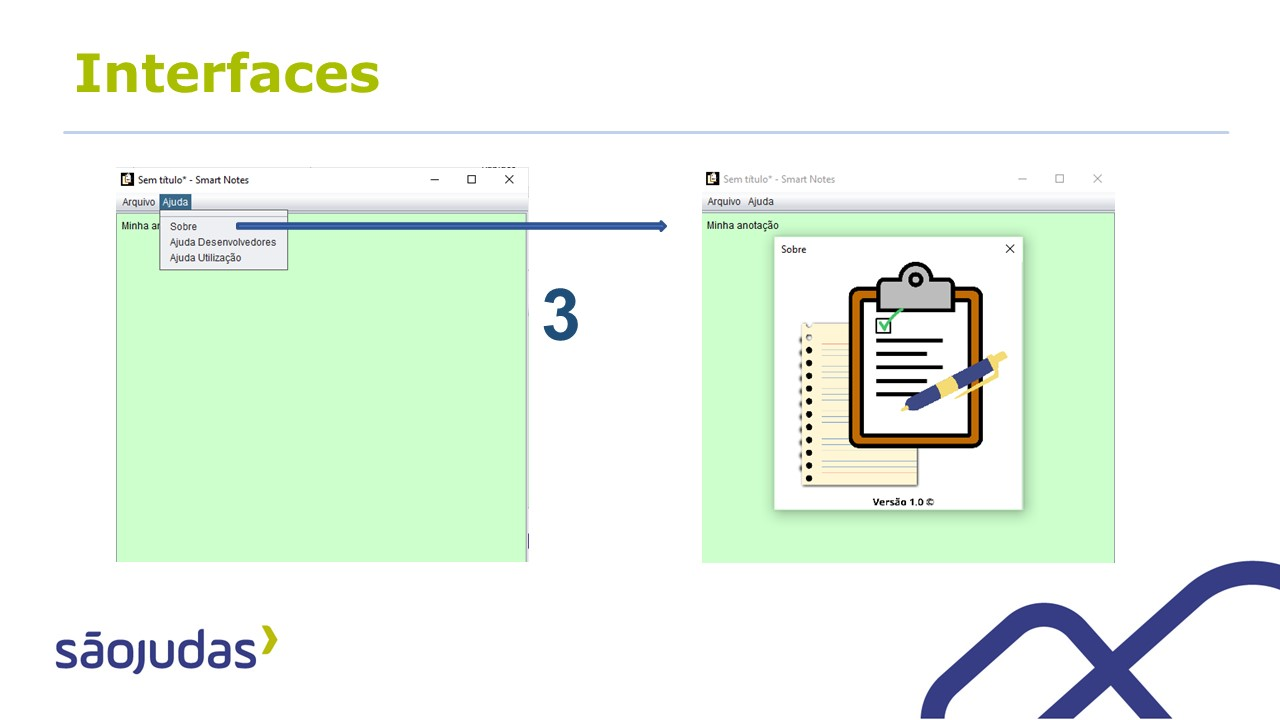
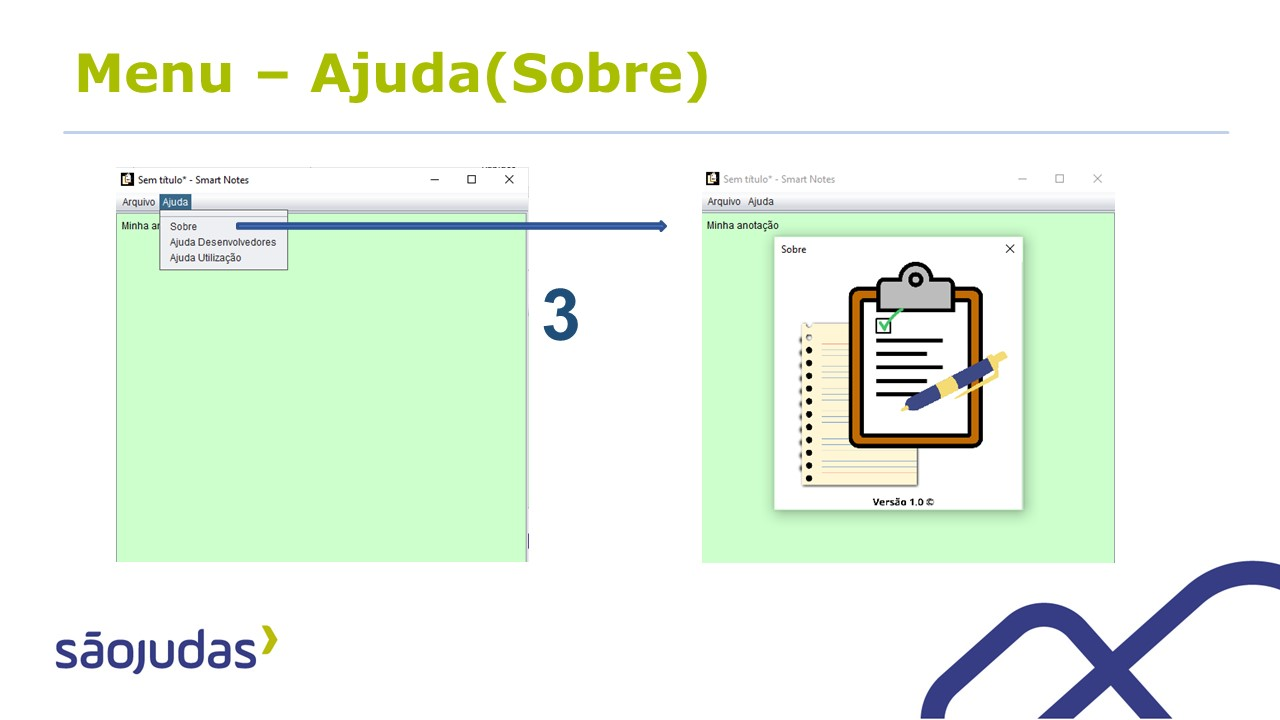
Up

Changed region(s): [[0.0625, 0.0611, 0.5625, 0.1528]]

diff --git a/README.md b/README.md
@@ -28,7 +28,7 @@ Usado a IDE NetBeans para o desenvolvimento do software.
 ---
 &nbsp;
 
-## Funcionamento
+## Funcionamento [Menus]
 &nbsp;
 ![Logo do R](./imgs_README/Slide5.JPG)
 ---
